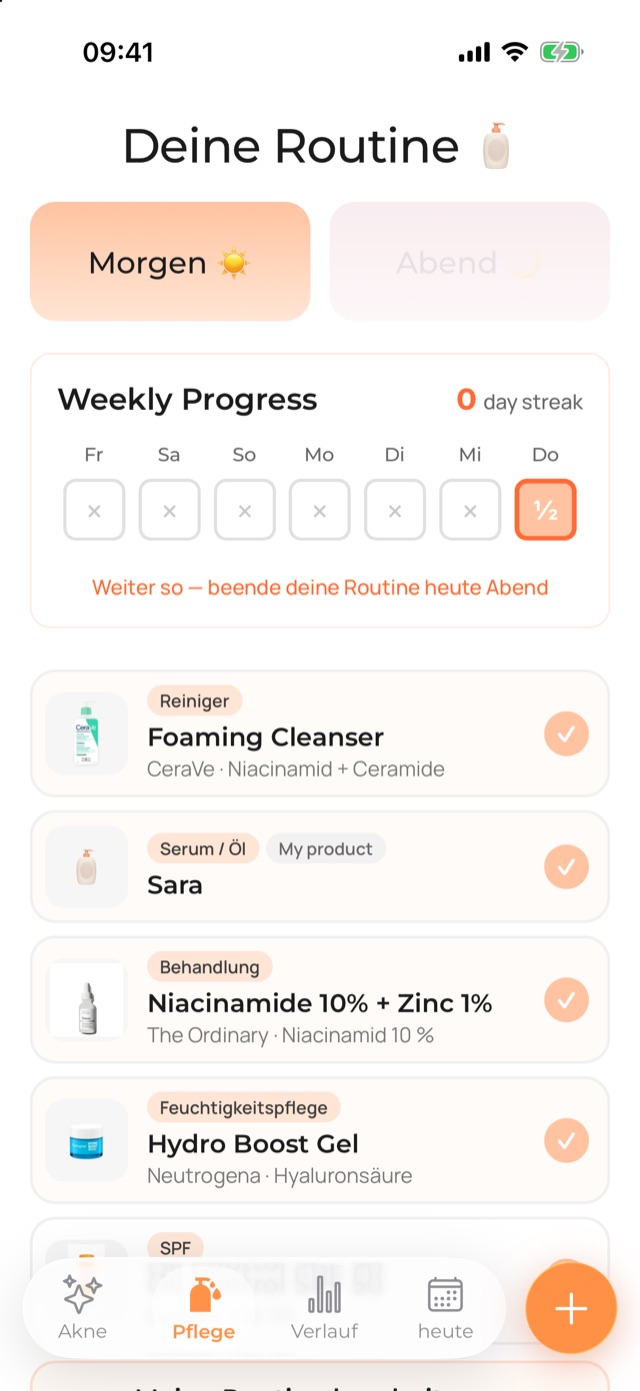
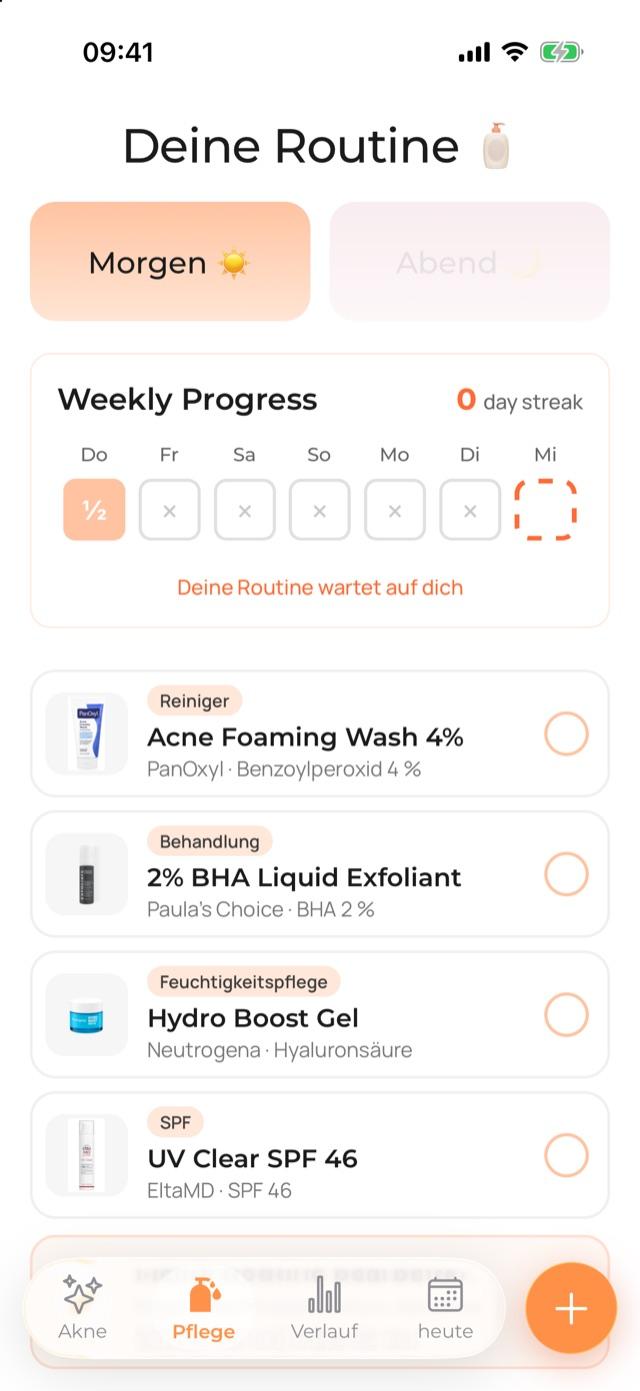
Mixed headlines, stacked before/after with boys, new skincare routine capture, single compare pair, trust card removed

diff --git a/index.html b/index.html
@@ -74,7 +74,7 @@
   <link rel="preconnect" href="https://fonts.gstatic.com" crossorigin>
   <link rel="stylesheet" href="https://fonts.googleapis.com/css2?family=Montserrat:wght@400;500;600&family=Manrope:wght@400;500;600;700&display=swap">
   <link rel="preload" as="image" href="assets/app/facescan.jpg" fetchpriority="high">
-  <link rel="stylesheet" href="site.css?v=19">
+  <link rel="stylesheet" href="site.css?v=20">
 </head>
 <body>
 
@@ -104,7 +104,7 @@
 <section class="hero" id="hero">
   <div class="wrap">
     <span class="pill" data-i18n-html="hero.pill">4.7 <span class="stars" aria-hidden="true">★★★★★</span> · 300,000+ analyses</span>
-    <h1 data-i18n-html="hero.h1">Your acne has a cause. <em>Find it, fix it.</em></h1>
+    <h1 data-i18n-html="hero.h1">Finally understand your acne <em>with AcneTrack.</em></h1>
     <p class="lead" data-i18n="hero.lead">Scan your face and get a tailored plan for your acne.</p>
     <div class="hero-cta">
       <a class="btn btn-dark cta" href="#download">
@@ -143,12 +143,24 @@
         <figure class="after"><img src="assets/ba/f2-after.jpg" alt="" loading="lazy"><figcaption data-i18n="ba.after">After</figcaption></figure>
       </div>
       <div class="ba-pair">
+        <figure><img src="assets/ba/m1-before.jpg" alt="" loading="lazy"><figcaption data-i18n="ba.before">Before</figcaption></figure>
+        <figure class="after"><img src="assets/ba/m1-after.jpg" alt="" loading="lazy"><figcaption data-i18n="ba.after">After</figcaption></figure>
+      </div>
+      <div class="ba-pair">
         <figure><img src="assets/ba/f3-before.jpg" alt="" loading="lazy"><figcaption data-i18n="ba.before">Before</figcaption></figure>
         <figure class="after"><img src="assets/ba/f3-after.jpg" alt="" loading="lazy"><figcaption data-i18n="ba.after">After</figcaption></figure>
       </div>
       <div class="ba-pair">
+        <figure><img src="assets/ba/m2-before.jpg" alt="" loading="lazy"><figcaption data-i18n="ba.before">Before</figcaption></figure>
+        <figure class="after"><img src="assets/ba/m2-after.jpg" alt="" loading="lazy"><figcaption data-i18n="ba.after">After</figcaption></figure>
+      </div>
+      <div class="ba-pair">
         <figure><img src="assets/ba/f1-before.jpg" alt="" loading="lazy"><figcaption data-i18n="ba.before">Before</figcaption></figure>
         <figure class="after"><img src="assets/ba/f1-after.jpg" alt="" loading="lazy"><figcaption data-i18n="ba.after">After</figcaption></figure>
+      </div>
+      <div class="ba-pair">
+        <figure><img src="assets/ba/m3-before.jpg" alt="" loading="lazy"><figcaption data-i18n="ba.before">Before</figcaption></figure>
+        <figure class="after"><img src="assets/ba/m3-after.jpg" alt="" loading="lazy"><figcaption data-i18n="ba.after">After</figcaption></figure>
       </div>
     </div>
   </div>
@@ -254,23 +266,10 @@
           <span class="compare-tag l" data-i18n="app.week1">Week 1</span><span class="compare-tag r" data-i18n="app.week6">Week 6</span>
           <i class="compare-handle"></i>
           <input type="range" min="0" max="100" value="50" aria-label="Compare before and after">
-          <div class="compare-dots" id="compareDots"><button type="button" data-pair="f2" class="on" aria-label="1"></button><button type="button" data-pair="f3" aria-label="2"></button><button type="button" data-pair="f1" aria-label="3"></button></div>
         </div>
         <div class="tile-text">
           <h3 data-i18n="tools.evo.h">Track your progress</h3>
           <p data-i18n="app.compare.p">A photo and a rating of your skin every day, then compare before and after. Your full tracker, in one place.</p>
-        </div>
-      </article>
-      <article class="tile tile-trust span3 rv">
-        <div class="tile-text">
-          <h3 data-i18n="trust.h">Certified technology</h3>
-          <p data-i18n="trust.note">Spot scans run on CE-marked medical software (ISO 13485). AcneTrack does not replace a dermatologist.</p>
-        </div>
-        <div class="seals">
-          <div class="seal"><img src="assets/badge-ce.svg" alt="CE"><b>CE</b><span data-i18n="trust.ce">Medical software used for spot scans</span></div>
-          <div class="seal"><img src="assets/badge-iso-13485.webp" alt="ISO 13485"><b>ISO 13485</b><span data-i18n="trust.iso">Quality standard for medical devices</span></div>
-          <div class="seal"><img src="assets/badge-gdpr.webp" alt="GDPR"><b data-i18n="trust.gdpr.name">GDPR</b><span data-i18n="trust.gdpr">Your data protected under EU law</span></div>
-          <div class="seal"><i class="seal-ic"><svg viewBox="0 0 24 24" fill="none" stroke="currentColor" stroke-width="2" stroke-linecap="round" aria-hidden="true"><rect x="4" y="11" width="16" height="10" rx="2"/><path d="M8 11V7a4 4 0 0 1 8 0v4"/></svg></i><b data-i18n="trust.private">Private photos</b><span data-i18n="trust.private.p">Never shared, deleted on request</span></div>
         </div>
       </article>
       <article class="tile rv">
@@ -424,7 +423,7 @@
   </a>
 </div>
 
-<script src="i18n.js?v=19"></script>
-<script src="site.js?v=18" defer></script>
+<script src="i18n.js?v=20"></script>
+<script src="site.js?v=19" defer></script>
 </body>
 </html>

diff --git a/site.css b/site.css
@@ -120,9 +120,9 @@ p { margin: 0; }
 .marquee { overflow: hidden; -webkit-mask-image: linear-gradient(90deg, transparent, #000 6%, #000 94%, transparent); mask-image: linear-gradient(90deg, transparent, #000 6%, #000 94%, transparent); }
 .marquee-track { display: flex; gap: 10px; width: max-content; animation: marquee 45s linear infinite; }
 @keyframes marquee { to { transform: translateX(-50%); } }
-.ba-pair { display: grid; grid-template-columns: 1fr 1fr; gap: 4px; width: 230px; flex: none; }
-.ba-pair figure { position: relative; margin: 0; aspect-ratio: 4 / 5; border-radius: 14px; overflow: hidden; background: var(--bg-2); }
-.ba-pair img { width: 100%; height: 100%; object-fit: cover; }
+.ba-pair { display: grid; grid-template-rows: auto auto; gap: 4px; width: 150px; flex: none; }
+.ba-pair figure { position: relative; margin: 0; aspect-ratio: 1 / 1; border-radius: 14px; overflow: hidden; background: var(--bg-2); }
+.ba-pair img { width: 100%; height: 100%; object-fit: cover; object-position: 50% 35%; }
 .ba-pair figcaption { position: absolute; left: 8px; bottom: 8px; padding: 3px 8px; border-radius: 999px; font-size: 11px; font-weight: 600; background: rgba(255, 255, 255, .92); }
 .ba-pair figure.after figcaption { background: var(--fg); color: #fff; }
 
@@ -254,7 +254,7 @@ footer { border-top: 1px solid var(--fg-10); padding: 40px 0 120px; background: 
   .sec-title, .sec-head { margin-bottom: 44px; }
   .ba { padding: 64px 0; }
   .ba-title { font-size: 30px; margin-bottom: 28px; }
-  .ba-pair { width: 320px; gap: 6px; }
+  .ba-pair { width: 200px; gap: 6px; }
   .cards-3 { grid-template-columns: repeat(3, 1fr); gap: 24px; }
   .card-media { height: 440px; padding-top: 40px; }
   .card-media .phone { --w: 250px; }
@@ -477,3 +477,5 @@ footer { border-top: 1px solid var(--fg-10); padding: 40px 0 120px; background: 
 @keyframes glow-sweep { 0%, 55% { left: -60%; } 85%, 100% { left: 130%; } }
 .reduce .btn-glow::after { animation: none; display: none; }
 .pill .stars { margin: 0 2px; }
+
+.nw { white-space: nowrap; }

diff --git a/i18n.js b/i18n.js
@@ -36,7 +36,7 @@ window.ACNETRACK_I18N = {
     'meta.description': "Scanne ton visage, réponds à quelques questions et reçois un plan anti-acné fait pour ta peau : la cause de ton acné, ta routine et tous les outils pour la suivre. Gratuit sur iOS et Android.",
     'nav.how': 'Comment ça marche', 'nav.tools': "L'app", 'nav.reviews': 'Avis', 'nav.faq': 'FAQ', 'nav.cta': 'Commencer',
     'hero.pill': '4,7 <span class="stars" aria-hidden="true">★★★★★</span> · 300 000+ analyses',
-    'hero.h1': 'Ton acné a une cause. <em>Trouve-la, traite-la.</em>',
+    'hero.h1': 'Ton plan <span class="nw">anti-acné</span> sur mesure, <em>avec AcneTrack.</em>',
     'hero.lead': 'Scanne ton visage, et obtiens un plan sur mesure pour ton acné.',
     'hero.cta': 'Faire mon analyse gratuite', 'hero.note': 'Gratuit · 2 minutes · iOS & Android',
     'scan.p1': 'Analyse de ton profil…', 'scan.p2': "Recherche des causes d'acné…", 'scan.p3': 'Création de ton plan sur mesure…',
@@ -116,7 +116,7 @@ window.ACNETRACK_I18N = {
     'meta.description': 'Scanne dein Gesicht, beantworte ein paar Fragen und erhalte einen Anti-Akne-Plan für deine Haut: die Ursache deiner Akne, deine Routine und alle Tools, um dranzubleiben. Kostenlos für iOS und Android.',
     'nav.how': "So funktioniert's", 'nav.tools': 'Die App', 'nav.reviews': 'Bewertungen', 'nav.faq': 'FAQ', 'nav.cta': 'Starten',
     'hero.pill': '4,7 <span class="stars" aria-hidden="true">★★★★★</span> · 300.000+ Analysen',
-    'hero.h1': 'Deine Akne hat eine Ursache. <em>Finde sie, behandle sie.</em>',
+    'hero.h1': 'Dein persönlicher <span class="nw">Anti-Akne-Plan</span>, <em>mit AcneTrack.</em>',
     'hero.lead': 'Scanne dein Gesicht und erhalte einen Plan nach Maß für deine Akne.',
     'hero.cta': 'Kostenlose Analyse starten', 'hero.note': 'Kostenlos · 2 Minuten · iOS & Android',
     'scan.p1': 'Dein Profil wird analysiert…', 'scan.p2': 'Akne-Ursachen werden gesucht…', 'scan.p3': 'Dein Plan nach Maß wird erstellt…',

diff --git a/site.js b/site.js
@@ -173,26 +173,6 @@
     } else playChat();
   }
 
-  /* ── Comparateur : plusieurs paires avant/après, au choix ou en rotation ── */
-  var cmpBox = $('compare'), cmpDots = $('compareDots');
-  if (cmpBox && cmpDots) {
-    var dotsB = $$('button', cmpDots), cmpTimer = null, cmpIdx = 0;
-    var showPair = function (i) {
-      cmpIdx = i; var id = dotsB[i].dataset.pair;
-      cmpBox.classList.add('swap');
-      setTimeout(function () {
-        cmpBox.querySelector(':scope > img').src = 'assets/ba/' + id + '-after.jpg';
-        cmpBox.querySelector('.compare-before img').src = 'assets/ba/' + id + '-before.jpg';
-        cmpBox.classList.remove('swap');
-      }, 250);
-      dotsB.forEach(function (b, j) { b.classList.toggle('on', j === i); });
-    };
-    dotsB.forEach(function (b, i) { b.addEventListener('click', function (e) { e.stopPropagation(); clearInterval(cmpTimer); showPair(i); }); });
-    if (!still) {
-      cmpTimer = setInterval(function () { showPair((cmpIdx + 1) % dotsB.length); }, 4500);
-      cmpBox.querySelector('input').addEventListener('pointerdown', function () { clearInterval(cmpTimer); });
-    }
-  }
 
   /* ── Langues ── */
   var I18N = window.ACNETRACK_I18N || {};
